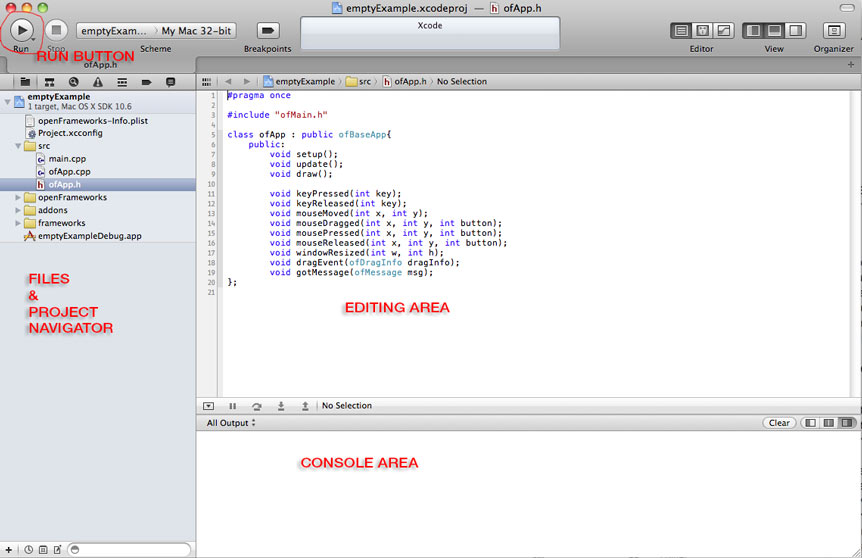
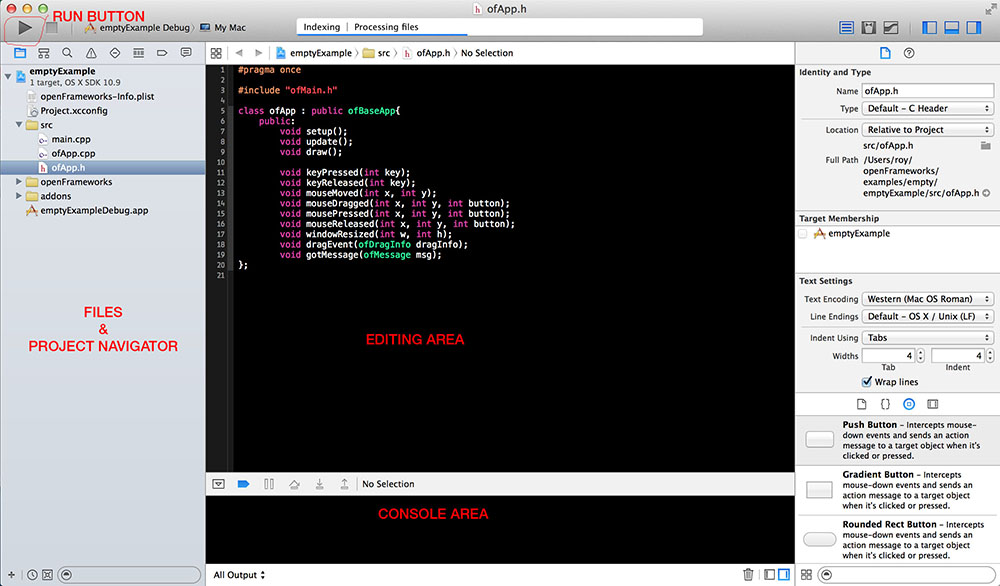
Updated images in project setup chapter.

diff --git a/chapters/setup_and_project_structure/chapter.md b/chapters/setup_and_project_structure/chapter.md
@@ -22,7 +22,7 @@ The IDE is your new kitchen, where you'll find all the tools to cook incredible 
 
 All IDEs have a similar interface:
 
-![Abstract IDE interface](images/IDE_Interfase.jpg "Abstract IDE interface")
+![Abstract IDE interface](images/IDE_Interface.jpg "Abstract IDE interface")
 
 - Toolbar and Run Button: In the tool bar you'll find several useful buttons, such as open, save, save all, et cetera. The "run" button is very important. Usually it is labeled with a triangle pointing to the right, like the "play" button. When you press it, your code will compile and if no problems are encountered it will automatically run your code. Hence this is a frequently used button.
 - File selector and project navigator area: Here you will see your project and the files associated with it. Usually it is displayed like a hierarchically ordered list of files. Here you'll find all the oF library files, as well as the files that are particular to your project.
@@ -34,6 +34,8 @@ All IDEs have a similar interface:
 [Xcode](https://developer.apple.com/xcode/ "Xcode website") is Apple's IDE. It is used both for iOS apps and desktop apps. Even though there are other IDEs for OS X, Xcode is a pretty mature one with lots of nice and useful features, especially for dealing with iOS apps.
 
 Use the latest version of Xcode and read the setup guide. 
+
+![Xcode screenshot](images/XcodeScreenShot.jpg "XCode screenshot")
 
 #### Microsoft Visual Studio 2012 Express
 
